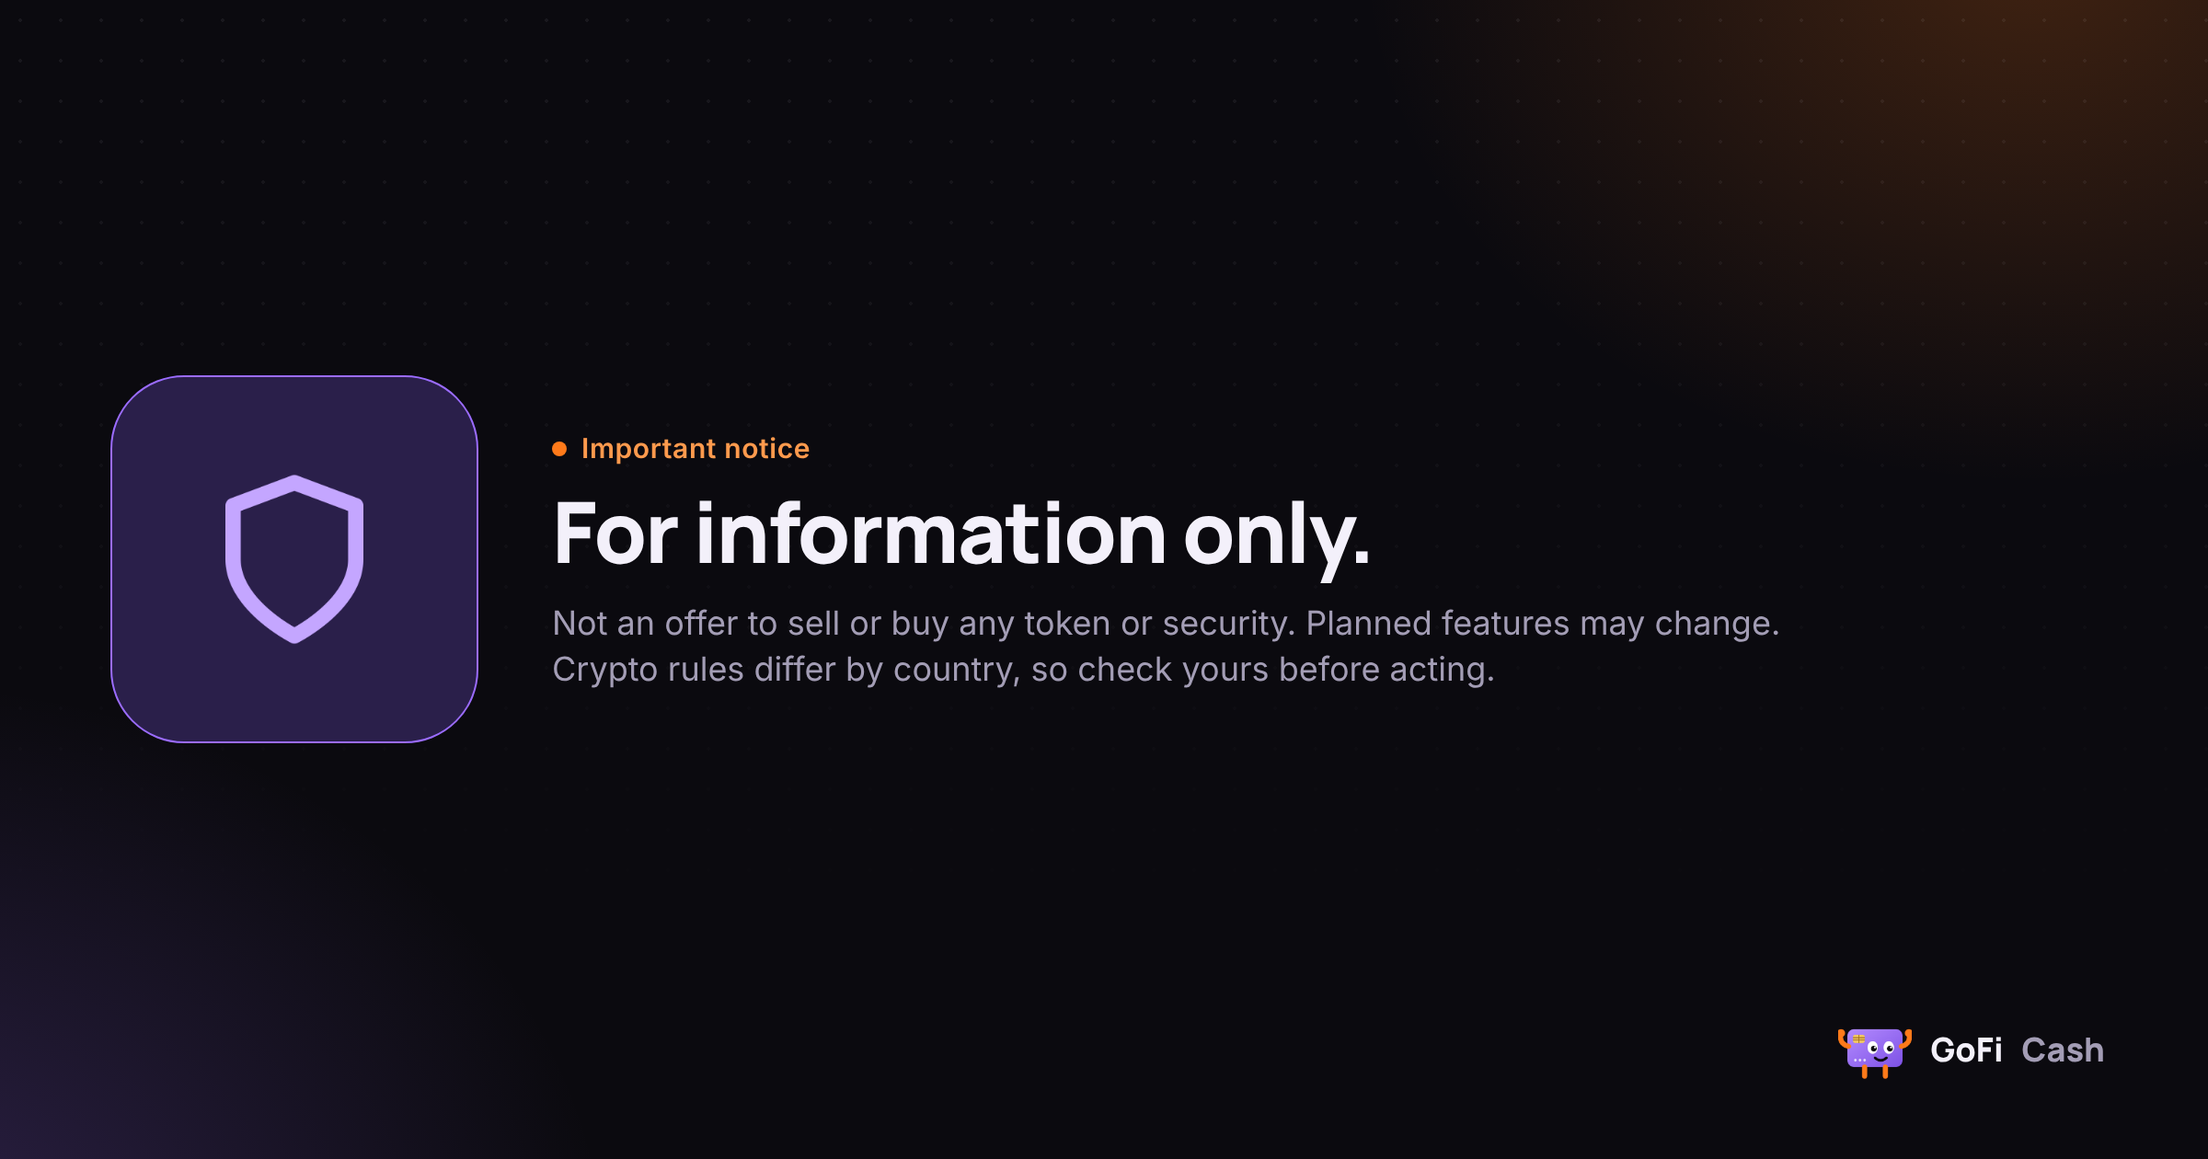
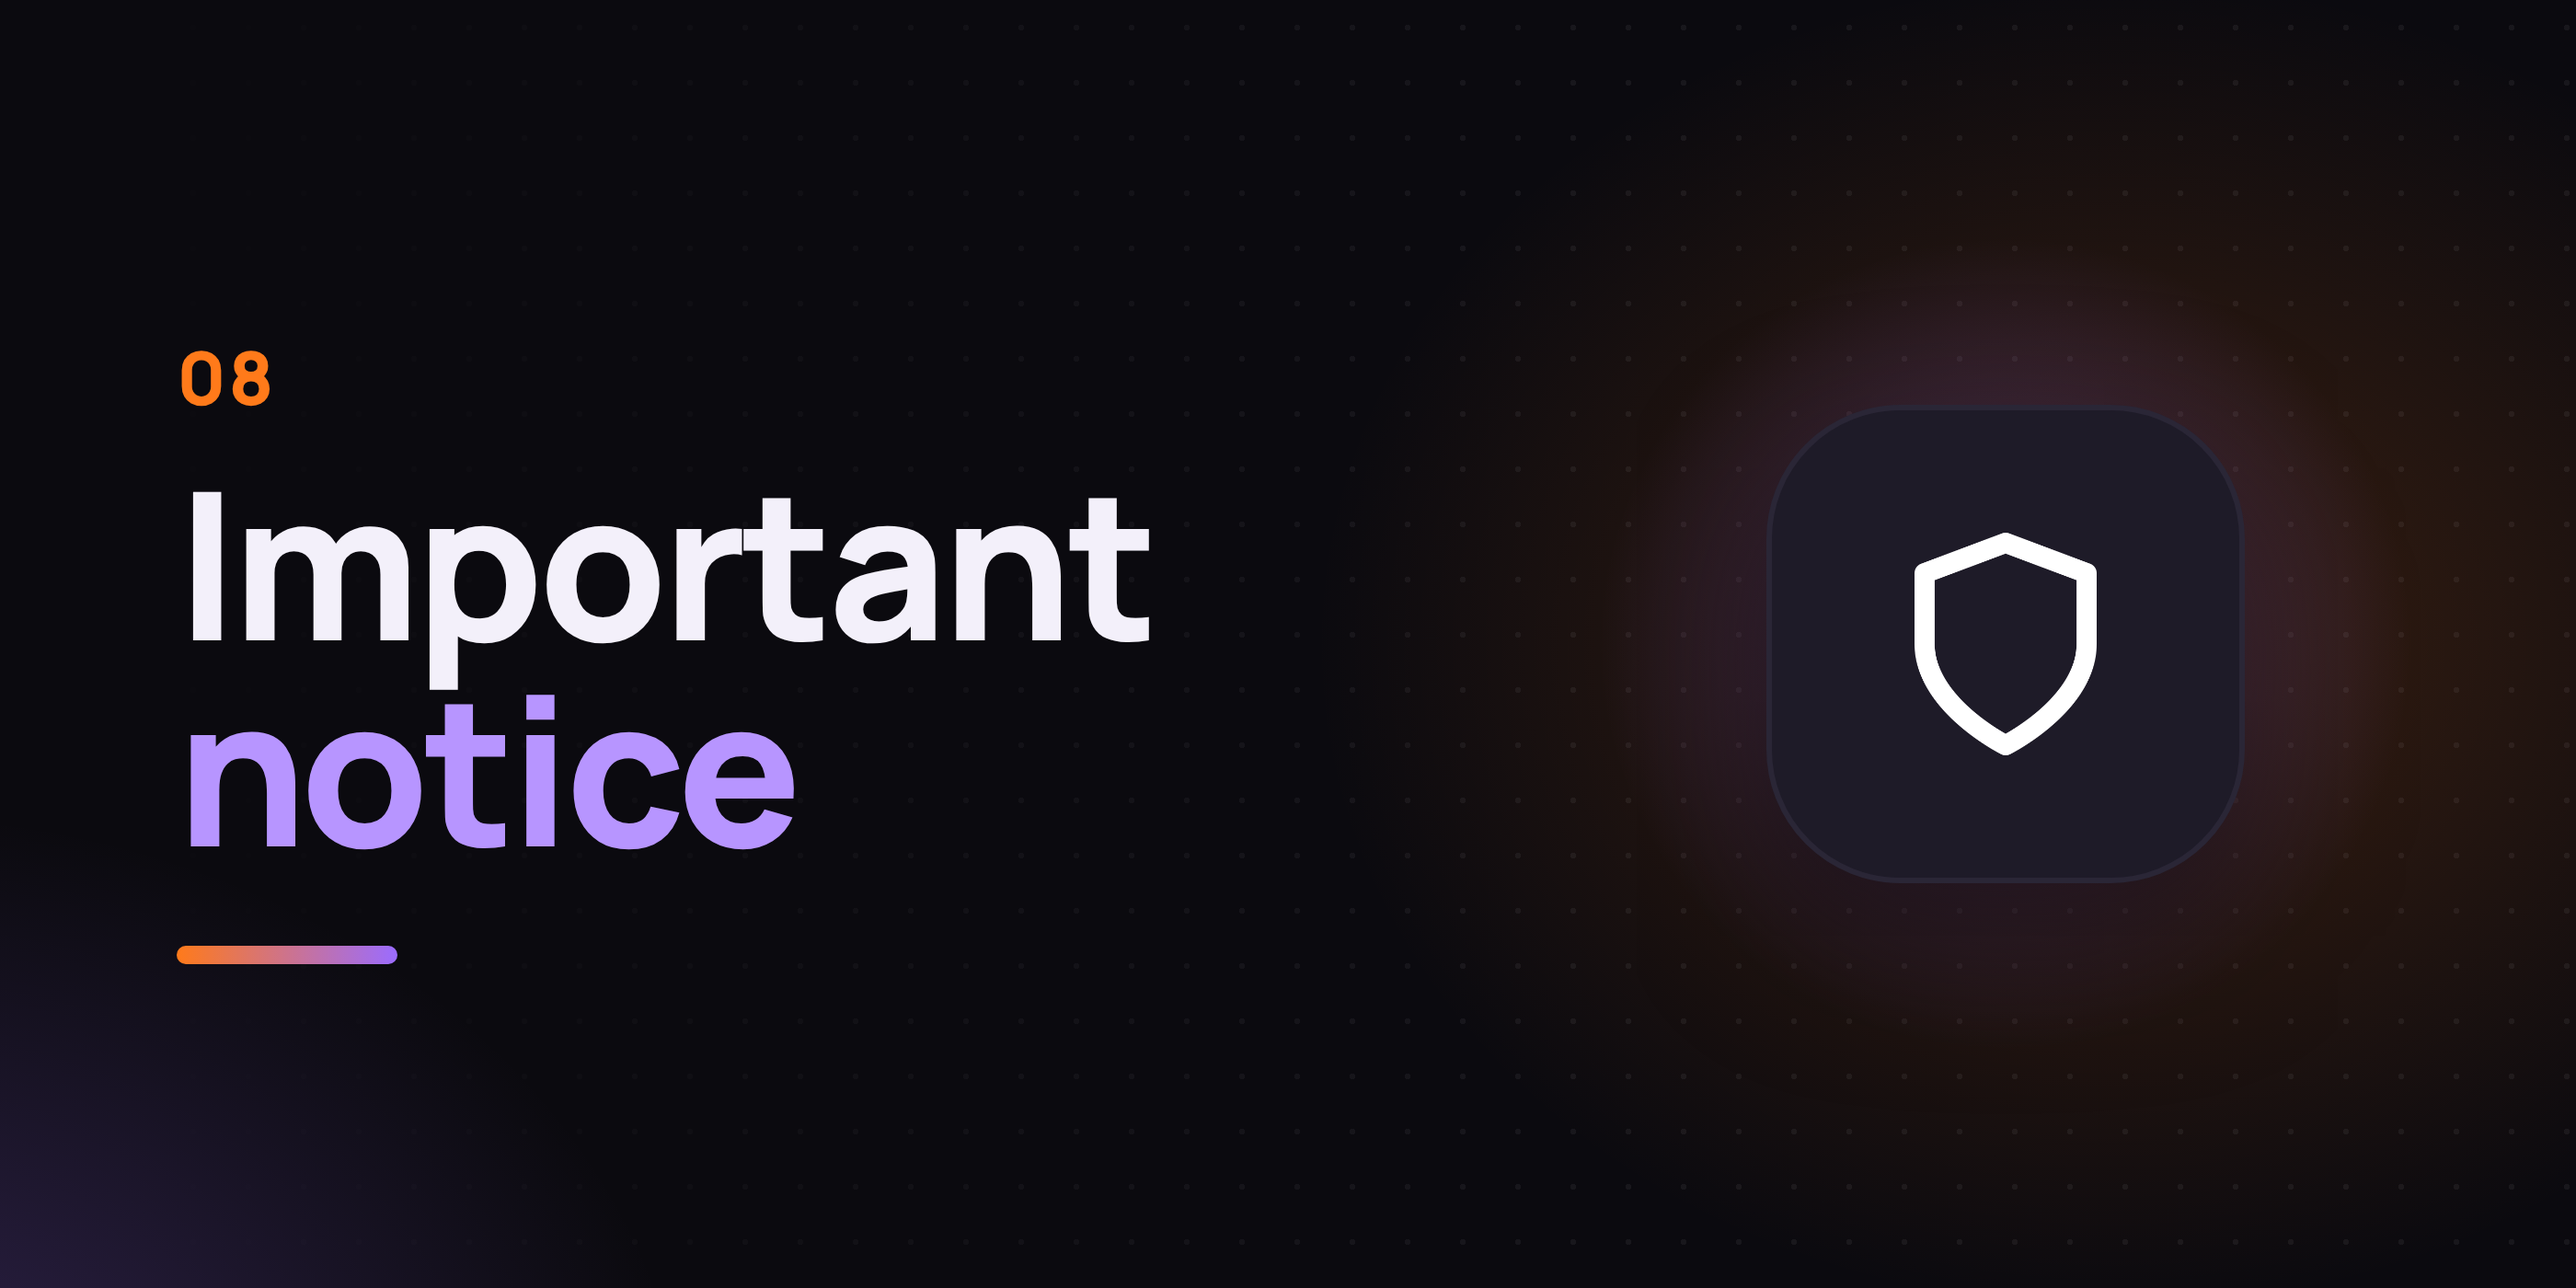
GITBOOK-3: change request with no subject merged in GitBook

diff --git a/README.md b/README.md
@@ -1,7 +1,5 @@
 ---
-cover:
-  light: .gitbook/assets/abstract.png
-  dark: .gitbook/assets/abstract.png
+cover: .gitbook/assets/abstract (1).png
 coverY: 0
 coverHeight: 235
 layout:
@@ -32,7 +30,7 @@ layout:
 
 # Abstract
 
-## Abstract
+##
 
 GoFi Cash turns the stablecoins in your wallet into things you can use: travel eSIM data, virtual phone numbers and a prepaid card. You connect a wallet, pick what you need and pay. No bank account, no exchange account, and GoFi never holds your crypto.
 

diff --git a/fees-and-revenue.md b/fees-and-revenue.md
@@ -1,5 +1,5 @@
 ---
-cover: .gitbook/assets/fees-and-revenue.png
+cover: .gitbook/assets/fees-and-revenue (1).png
 coverY: 0
 ---
 

diff --git a/membership-tiers.md b/membership-tiers.md
@@ -1,5 +1,5 @@
 ---
-cover: .gitbook/assets/membership-tiers.png
+cover: .gitbook/assets/membership-tiers (1).png
 coverY: 0
 ---
 

diff --git a/how-it-works.md b/how-it-works.md
@@ -1,5 +1,5 @@
 ---
-cover: .gitbook/assets/how-it-works.png
+cover: .gitbook/assets/how-it-works (1).png
 coverY: 0
 ---
 

diff --git a/the-problem.md b/the-problem.md
@@ -1,5 +1,5 @@
 ---
-cover: .gitbook/assets/the-problem.png
+cover: .gitbook/assets/the-problem (1).png
 coverY: 0
 ---
 

diff --git a/the-product.md b/the-product.md
@@ -1,5 +1,5 @@
 ---
-cover: .gitbook/assets/the-product.png
+cover: .gitbook/assets/the-product (1).png
 coverY: 0
 ---
 

diff --git a/gofi-token.md b/gofi-token.md
@@ -1,5 +1,5 @@
 ---
-cover: .gitbook/assets/gofi-token.png
+cover: .gitbook/assets/gofi-token (1).png
 coverY: 0
 ---
 

diff --git a/roadmap.md b/roadmap.md
@@ -1,5 +1,5 @@
 ---
-cover: .gitbook/assets/roadmap.png
+cover: .gitbook/assets/roadmap (1).png
 coverY: 0
 ---
 
